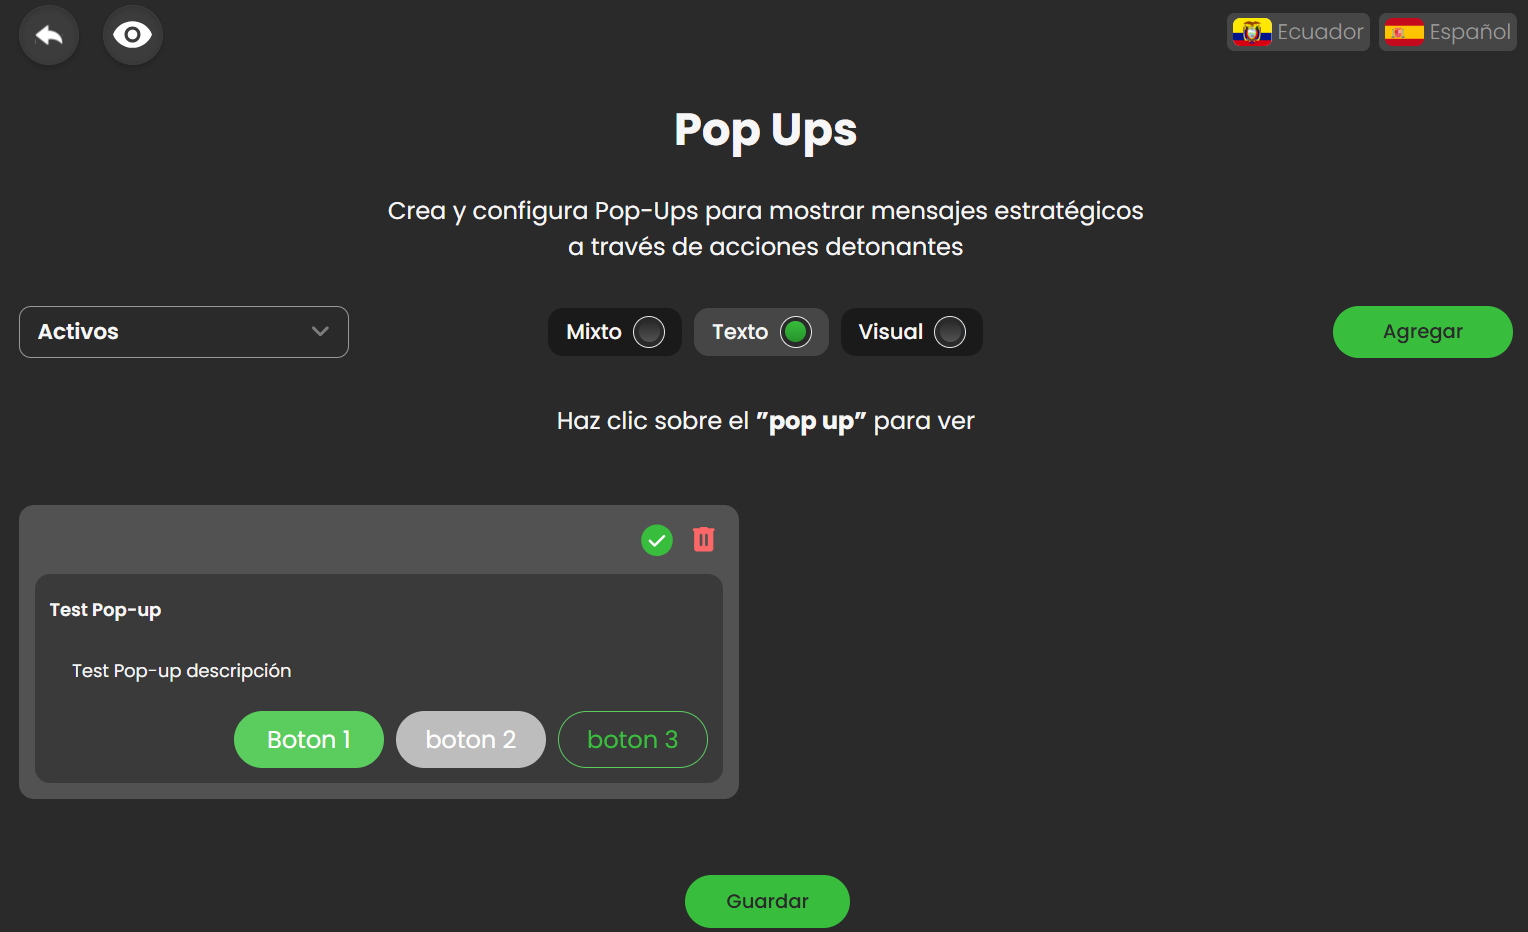
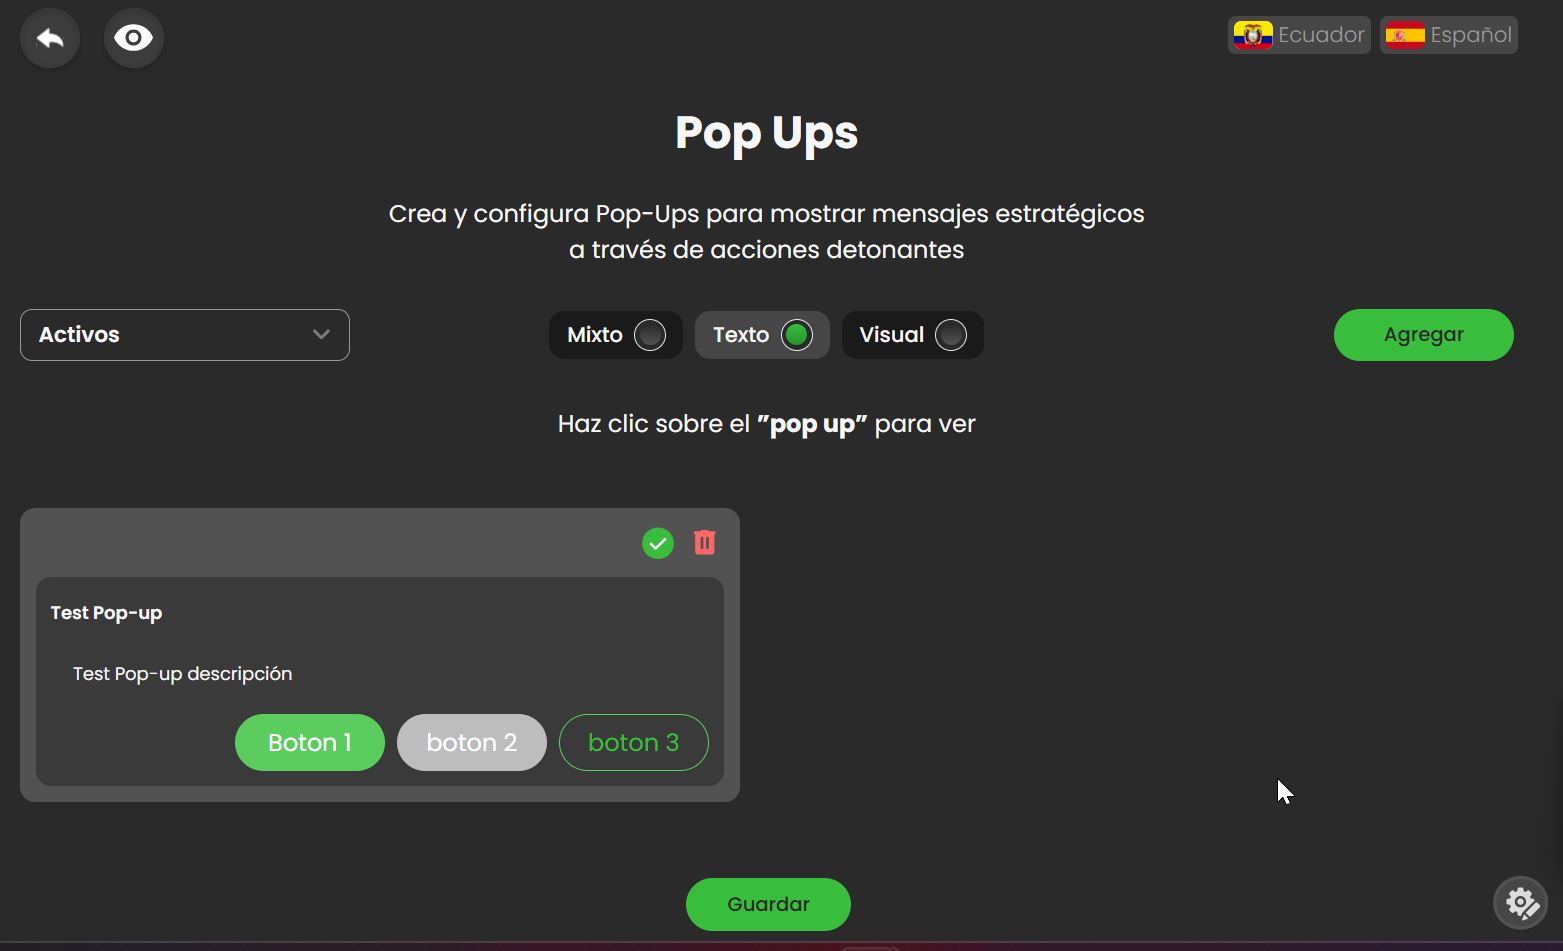
GITBOOK-764: change request with no subject merged in GitBook

diff --git a/Sitebuilder/SUMMARY.md b/Sitebuilder/SUMMARY.md
@@ -30,7 +30,7 @@
       * [Cards deportivas](manual-de-usuario/como-ingresar/productos/cards-deportivas.md)
       * [Editar depósitos](manual-de-usuario/como-ingresar/productos/editar-depositos.md)
       * [Configurar depósitos](manual-de-usuario/como-ingresar/productos/configurar-depositos.md)
-      * [Depósito](manual-de-usuario/como-ingresar/productos/deposito.md)
+      * [Depósitos](manual-de-usuario/como-ingresar/productos/depositos.md)
       * [Retiros](manual-de-usuario/como-ingresar/productos/retiros.md)
     * [Acuerdos](manual-de-usuario/como-ingresar/acuerdos/README.md)
       * [Términos](manual-de-usuario/como-ingresar/acuerdos/terminos.md)

diff --git a/Sitebuilder/manual-de-usuario/como-ingresar/apariencia/pop-ups.md b/Sitebuilder/manual-de-usuario/como-ingresar/apariencia/pop-ups.md
@@ -39,7 +39,7 @@ Este manual cubre el uso de la sección [**pop ups**](https://virtualsoft.gitboo
 
 ### **4. Visualización**
 
-<figure><img src="../../../.gitbook/assets/image (1).png" alt=""><figcaption><p>Figura #1: Captura de pantalla módulo Pop Ups.</p></figcaption></figure>
+<figure><img src="../../../.gitbook/assets/image (1) (1).png" alt=""><figcaption><p>Figura #1: Captura de pantalla módulo Pop Ups.</p></figcaption></figure>
 
 ***
 